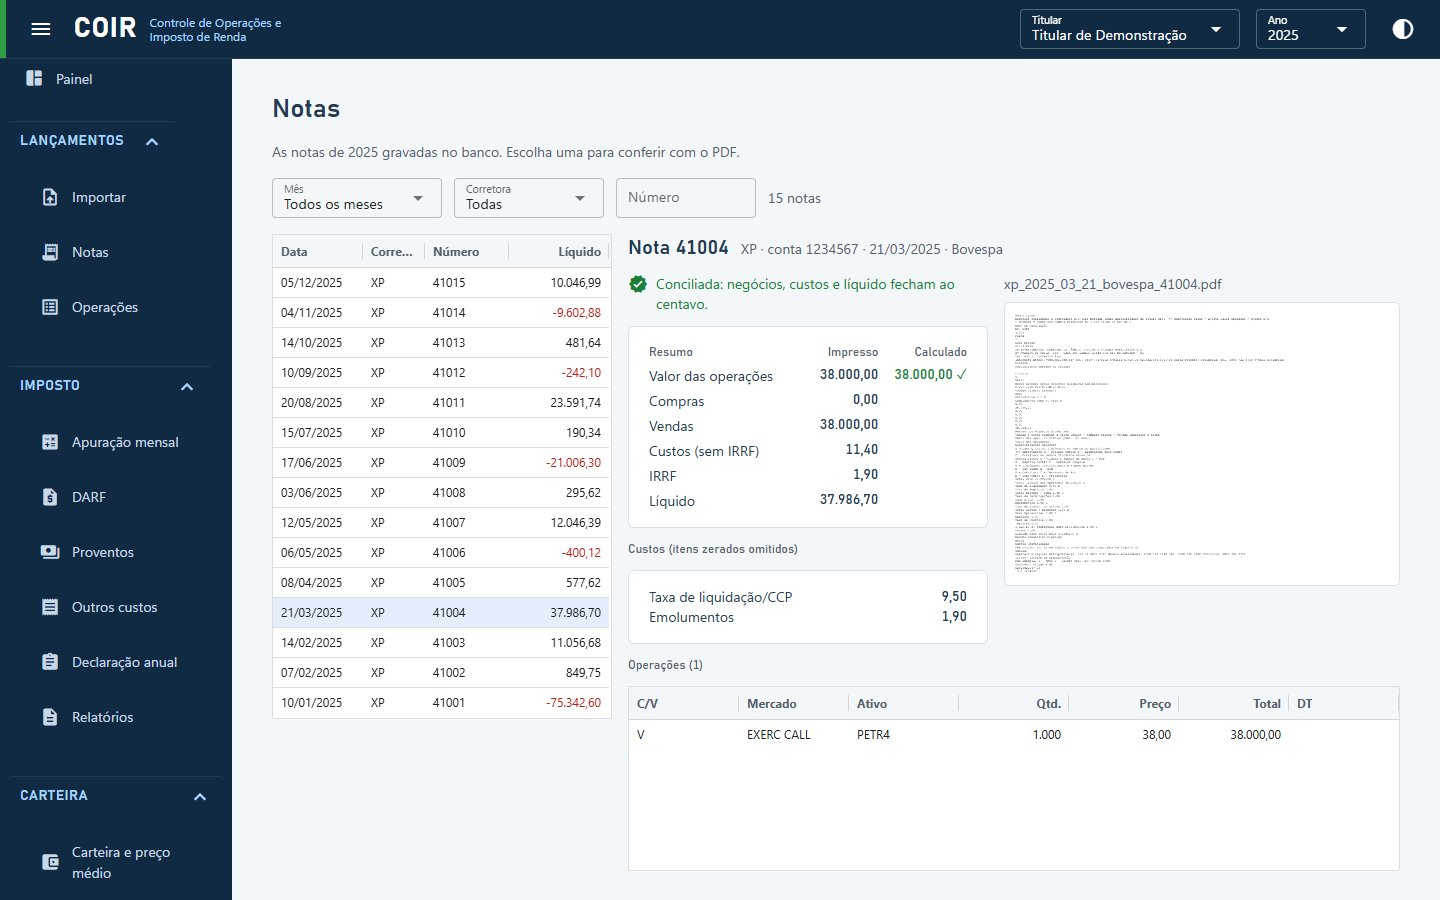
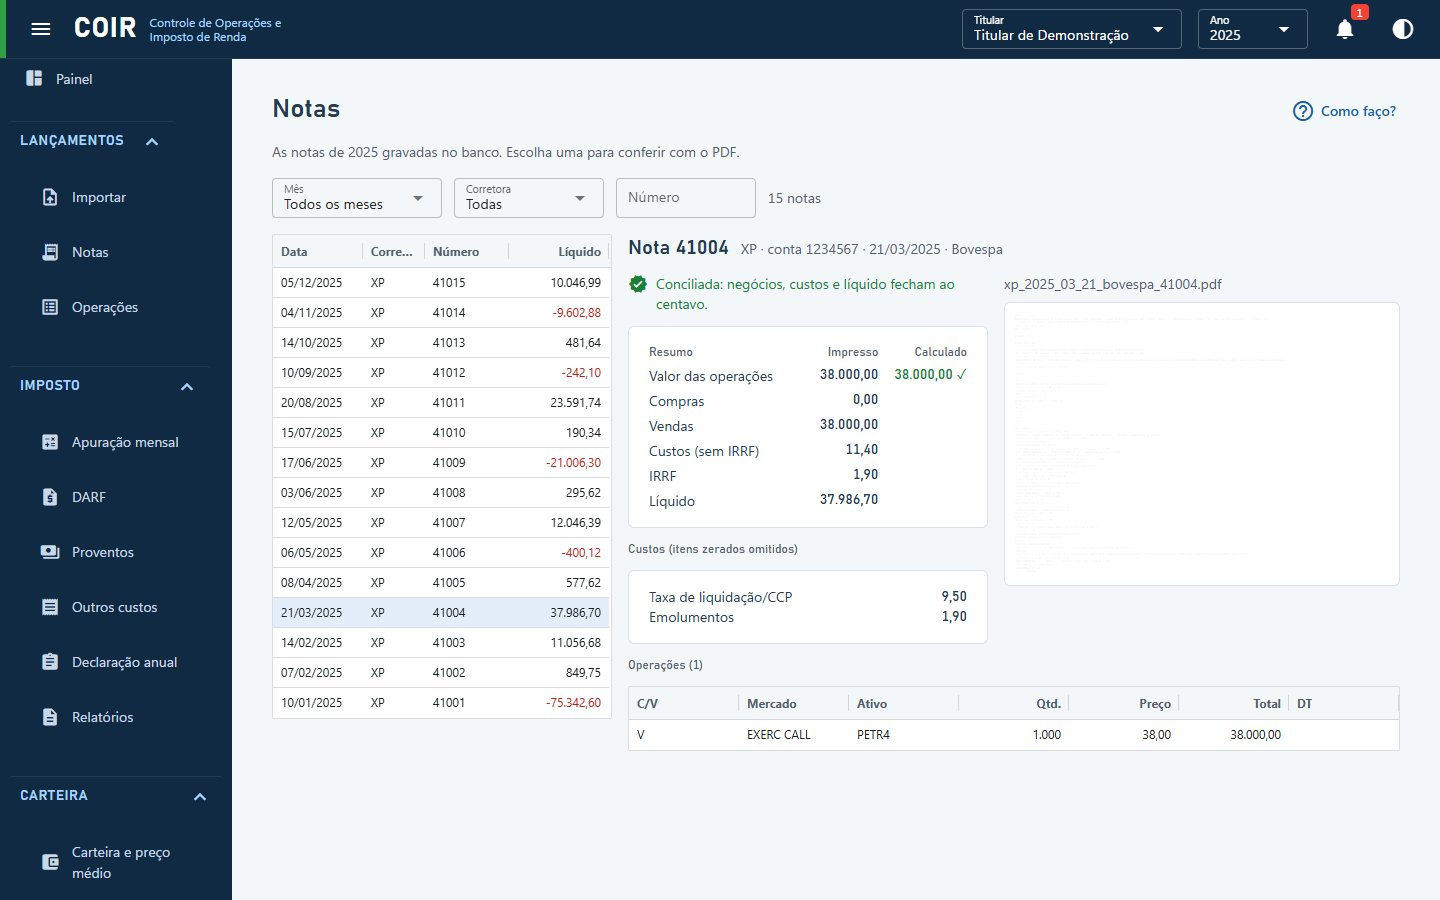
docs(manual): imagens de todas as telas refeitas e páginas com o que entrou na 3.1.1

Changed region(s): [[0.6875, 0.3422, 0.7812, 0.6222], [0.6562, 0.0, 0.9688, 0.0622], [0.9062, 0.0933, 0.9375, 0.1244]]

diff --git a/docs/manual/telas/eventos.html b/docs/manual/telas/eventos.html
@@ -44,6 +44,16 @@ footer{max-width:980px;margin:0 auto;padding:0 20px 40px;font-size:14px;color:#6
 
 <p>Desdobramentos, grupamentos e bonificações com custo publicado pela companhia na CVM <strong>entram sozinhos</strong> para as ações que estavam em carteira na data, ao importar notas e ao abrir esta tela. A tela mostra quantos entraram, com <strong>Desfazer</strong>; o que você apagar não volta. Eventos depois da sua última nota ficam de fora até você importar as notas seguintes, porque o COIR não sabe se você ainda tinha o ativo.</p>
 
+<p>No alto da aba podem aparecer avisos:</p>
+
+<ul>
+<li><strong>Movimentação da B3 ausente ou incompleta:</strong> sem a planilha de movimentação do período das notas, subscrições, restituições e ofertas não aparecem. Importe-a em Importar › Planilhas da B3.</li>
+<li><strong>Bonificação sem custo atribuído:</strong> já lançada, mas sem o custo, o preço médio da venda sai errado. <strong>Corrigir</strong> abre o evento na aba Lançados.</li>
+<li><strong>Ativo que parou de negociar:</strong> posição em ativo sem negócio na bolsa há mais de 90 dias, com o que houve, quando se sabe (falta um evento?). <strong>Ignorar</strong> tira o aviso daqui e do sino.</li>
+</ul>
+
+<p>Entre as propostas também vêm a <strong>restituição de capital</strong> em dinheiro (proposta como redução de capital, só com o valor) e o <strong>direito não exercido</strong>: o direito, recibo ou bônus de subscrição comprado que venceu sem ser exercido nem vendido vira perda em operações comuns na data do fim do prazo de subscrição. A caixa <strong>mostrar lançadas, ignoradas e posteriores</strong> mostra o resto da lista.</p>
+
 <p>Aqui fica o que depende de você:</p>
 
 <ul>
@@ -55,7 +65,7 @@ footer{max-width:980px;margin:0 auto;padding:0 20px 40px;font-size:14px;color:#6
 
 <h2 id="lancados">Lançados</h2>
 
-<p>Todos os eventos do titular. Clique num deles para corrigir ou excluir. Aqui também entram os que não têm aba própria: desdobramento, grupamento, bonificação, redução de capital e leilão de fração.</p>
+<p>Todos os eventos do titular. Clique num deles para corrigir ou excluir. Aqui também entram os que não têm aba própria: desdobramento, grupamento, bonificação, redução de capital, leilão de fração e direito não exercido.</p>
 
 <h2 id="subscricoes">Subscrições</h2>
 

diff --git a/docs/manual/telas/apuracao.html b/docs/manual/telas/apuracao.html
@@ -38,6 +38,10 @@ footer{max-width:980px;margin:0 auto;padding:0 20px 40px;font-size:14px;color:#6
 
 <p>O imposto mês a mês por categoria (comum, day trade, FII): vendas de ações no mês, inclusive em day trade (limite de R$ 20 mil), ganho isento, resultado, prejuízo anterior, base, imposto, IRRF deduzido e DARF. Escolha o mês para ver a <strong>memória de cálculo</strong>: cada movimento com a regra aplicada; clique num movimento para abrir a nota.</p>
 
+<p>No quadro <strong>Limite de isenção</strong>, a soma das vendas de ações do mês aparece com as duas parcelas, operações comuns e day trade, quando há day trade. A venda em day trade entra na soma (critério do COIR, leitura literal da Lei 11.033/2004 art. 3º I), mas o ganho dela nunca é isento: dentro do limite, só o ganho das vendas comuns de ações é isento. Num mês em que só o day trade leva a soma acima de R$ 20 mil, a apuração avisa. Vendas de ações de pequena ou média empresa (PME) aparecem em linhas próprias: o ganho é isento e fica fora do limite, e a perda não compensa outros ganhos.</p>
+
+<p>Abaixo dos movimentos, <strong>Resultado por ativo</strong> junta o mês por dia e ativo (custo médio, preço final, lucratividade e resultado); clique numa linha para ver só os movimentos dela.</p>
+
 <p><a href="../index.html">Voltar ao índice do manual</a></p>
 
 </main>

diff --git a/novidades.html b/novidades.html
@@ -91,6 +91,7 @@ Os links estão no alto da tela <strong>Suporte</strong>, no rodapé do site e n
 <li><strong>A janela abre maximizada</strong>, em vez do tamanho fixo que não cabia nas telas menores.</li>
 <li><strong>Centavos de arredondamento não recusam mais a nota.</strong> A diferença entre os valores impressos vira a linha de custo "Ajuste de arredondamento", e a nota fecha com o líquido impresso. Só o que passar do que o arredondamento explica consome a tolerância de R$ 0,05 por nota, com aviso; acima dela, a nota é recusada.</li>
 <li><strong>Endereço do site:</strong> o site e o manual passam a ficar em https://coir.com.br; o endereço antigo (marcelopcf.github.io/COIR) leva ao novo.</li>
+<li><strong>Manual:</strong> imagens de todas as telas refeitas com a versão atual, e as páginas de Eventos, Apuração, Carteira, Importar e Configurações descrevem o que entrou nesta versão (avisos e propostas da aba A conferir, soma do limite com o day trade, resultado por ativo, termo em aberto, corretora sem perfil, licença e o botão <strong>Como faço?</strong>).</li>
 </ul>
 
 <h3 id="corrigido">Corrigido</h3>

diff --git a/docs/manual/telas/configuracoes.html b/docs/manual/telas/configuracoes.html
@@ -38,6 +38,8 @@ footer{max-width:980px;margin:0 auto;padding:0 20px 40px;font-size:14px;color:#6
 
 <p>Pasta de dados, aparência (tema do Windows, claro ou escuro), <strong>backups</strong> (fazer agora, restaurar), <strong>tabelas de referência</strong> (versão em uso e o botão Atualizar tabelas), <strong>versão do programa</strong> (Verificar nova versão; a opção de verificar ao abrir vale para tabelas e programa) e o <strong>registro de atividades</strong> (importações, backups, migrações e erros, com filtro e botão para abrir a pasta).</p>
 
+<p>No fim da tela, <strong>Licença e código-fonte</strong>: o COIR é software livre (AGPL-3.0-or-later), oferecido sem garantia; os links abrem o código-fonte da versão instalada e o texto da licença. O <code>LICENSE.txt</code> e os avisos das bibliotecas de terceiros (<code>AVISOS-DE-TERCEIROS.txt</code>) ficam na pasta do programa.</p>
+
 <p>Para enviar uma nota que o COIR não lê, veja a tela <a href="suporte.html">Suporte</a>.</p>
 
 <p><a href="../index.html">Voltar ao índice do manual</a></p>

diff --git a/docs/manual/telas/carteira.html b/docs/manual/telas/carteira.html
@@ -38,6 +38,8 @@ footer{max-width:980px;margin:0 auto;padding:0 20px 40px;font-size:14px;color:#6
 
 <p>A posição numa data, com quantidade, preço médio e custo. A visão <strong>Titular (fiscal)</strong> é a que vale para o IR (um custo médio por ativo, somando corretoras e contas; IN RFB 1.585/2015 art. 58); as visões por corretora e conta servem para conferir a custódia. Escolha um ativo para ver a <strong>trilha do preço médio</strong> (cada compra, venda e evento). Exportar esta posição grava a planilha.</p>
 
+<p>Uma <strong>compra a termo ainda não liquidada</strong> aparece numa linha própria, logo abaixo do ativo, com a data da liquidação. Ela não entra na posição, no preço médio nem no total até liquidar, como na B3; ao clicar, o painel mostra a nota da compra.</p>
+
 <p><a href="../index.html">Voltar ao índice do manual</a></p>
 
 </main>

diff --git a/docs/manual/telas/importar.html b/docs/manual/telas/importar.html
@@ -47,6 +47,10 @@ footer{max-width:980px;margin:0 auto;padding:0 20px 40px;font-size:14px;color:#6
 
 <p>O titular sai do CPF impresso na nota; se ele não existir, é criado (confira o nome em Cadastros).</p>
 
+<p><strong>Corretora que o COIR ainda não conhece:</strong> ele tenta ler a nota pelos layouts padrão. Se os totais fecharem, a nota entra com um aviso para você conferir as operações (se algo estiver errado, mande a nota pela tela <a href="suporte.html">Suporte</a>); se não fecharem, ela é recusada com o motivo, e nada dela é gravado.</p>
+
+<p>Depois de importar notas, os desdobramentos, grupamentos e bonificações com custo publicado das ações em carteira entram sozinhos, e um aviso diz quantos; veja a tela <a href="eventos.html">Eventos</a>.</p>
+
 <p><a href="../index.html">Voltar ao índice do manual</a></p>
 
 </main>

diff --git a/docs/manual/primeiro-uso.html b/docs/manual/primeiro-uso.html
@@ -37,7 +37,8 @@ footer{max-width:980px;margin:0 auto;padding:0 20px 40px;font-size:14px;color:#6
 <p><img src="imagens/inicio.png" alt="Assistente de primeiros passos" /></p>
 
 <ol>
-<li><strong>Baixe e extraia</strong> o <code>COIR-windows.zip</code> (página de versões do GitHub) numa pasta sua,
+<li><strong>Baixe e extraia</strong> o <code>COIR-windows.zip</code> (botão Baixar do site https://coir.com.br, ou a página
+de versões do GitHub) numa pasta sua,
 por exemplo <code>Documentos\COIR</code>. Dê dois cliques em <code>COIR.exe</code>. Se o Windows mostrar o aviso do
 SmartScreen, clique em "Mais informações" e "Executar assim mesmo" (o programa não tem
 assinatura digital; confira o SHA-256 se quiser). Se não abrir, veja

diff --git a/docs/manual/index.html b/docs/manual/index.html
@@ -51,7 +51,8 @@ importar as primeiras notas.</li>
 <h2 id="telas">Telas</h2>
 
 <p>O menu à esquerda agrupa as telas. O topo traz o titular e o ano em uso (valem para todas as
-telas), o tema claro/escuro e o botão de recolher o menu.</p>
+telas), o tema claro/escuro e o botão de recolher o menu. Em cada tela, o botão <strong>Como faço?</strong> abre a
+página deste manual ao lado, sem cobrir o que você está preenchendo.</p>
 
 <table>
 <thead>

diff --git a/docs/manual/telas/eventos.md b/docs/manual/telas/eventos.md
@@ -10,6 +10,14 @@ O que a B3 mostra e ainda não está no seu histórico, vindo das tabelas públi
 
 Desdobramentos, grupamentos e bonificações com custo publicado pela companhia na CVM **entram sozinhos** para as ações que estavam em carteira na data, ao importar notas e ao abrir esta tela. A tela mostra quantos entraram, com **Desfazer**; o que você apagar não volta. Eventos depois da sua última nota ficam de fora até você importar as notas seguintes, porque o COIR não sabe se você ainda tinha o ativo.
 
+No alto da aba podem aparecer avisos:
+
+- **Movimentação da B3 ausente ou incompleta:** sem a planilha de movimentação do período das notas, subscrições, restituições e ofertas não aparecem. Importe-a em Importar › Planilhas da B3.
+- **Bonificação sem custo atribuído:** já lançada, mas sem o custo, o preço médio da venda sai errado. **Corrigir** abre o evento na aba Lançados.
+- **Ativo que parou de negociar:** posição em ativo sem negócio na bolsa há mais de 90 dias, com o que houve, quando se sabe (falta um evento?). **Ignorar** tira o aviso daqui e do sino.
+
+Entre as propostas também vêm a **restituição de capital** em dinheiro (proposta como redução de capital, só com o valor) e o **direito não exercido**: o direito, recibo ou bônus de subscrição comprado que venceu sem ser exercido nem vendido vira perda em operações comuns na data do fim do prazo de subscrição. A caixa **mostrar lançadas, ignoradas e posteriores** mostra o resto da lista.
+
 Aqui fica o que depende de você:
 
 - **Uma a uma:** clique numa proposta, confira os campos e use **Gravar**, ou **Ignorar proposta** se ela não vale para você. A movimentação da B3 traz a data do crédito; troque pela data ex (primeiro pregão sem o direito).
@@ -19,7 +27,7 @@ Ficam de fora das seguras o que pede algo seu (bonificação sem custo publicado
 
 ## Lançados
 
-Todos os eventos do titular. Clique num deles para corrigir ou excluir. Aqui também entram os que não têm aba própria: desdobramento, grupamento, bonificação, redução de capital e leilão de fração.
+Todos os eventos do titular. Clique num deles para corrigir ou excluir. Aqui também entram os que não têm aba própria: desdobramento, grupamento, bonificação, redução de capital, leilão de fração e direito não exercido.
 
 ## Subscrições
 

diff --git a/CHANGELOG.md b/CHANGELOG.md
@@ -50,6 +50,7 @@ O formato deste arquivo segue o [Keep a Changelog](https://keepachangelog.com/pt
 - **A janela abre maximizada**, em vez do tamanho fixo que não cabia nas telas menores.
 - **Centavos de arredondamento não recusam mais a nota.** A diferença entre os valores impressos vira a linha de custo "Ajuste de arredondamento", e a nota fecha com o líquido impresso. Só o que passar do que o arredondamento explica consome a tolerância de R$ 0,05 por nota, com aviso; acima dela, a nota é recusada.
 - **Endereço do site:** o site e o manual passam a ficar em https://coir.com.br; o endereço antigo (marcelopcf.github.io/COIR) leva ao novo.
+- **Manual:** imagens de todas as telas refeitas com a versão atual, e as páginas de Eventos, Apuração, Carteira, Importar e Configurações descrevem o que entrou nesta versão (avisos e propostas da aba A conferir, soma do limite com o day trade, resultado por ativo, termo em aberto, corretora sem perfil, licença e o botão **Como faço?**).
 
 ### Corrigido
 - **Avisos de licença de terceiros completos no pacote**: o `AVISOS-DE-TERCEIROS.txt` trazia só nome e licença das bibliotecas, incluía ferramentas de desenvolvimento que não vão no .zip e deixava de fora o que não é pacote Python. Agora traz o texto integral de cada licença, com os avisos de copyright, de tudo o que vai no .zip e só disso: bibliotecas Python, o próprio Python e as bibliotecas que ele incorpora (OpenSSL, SQLite, zlib...), o runtime da Microsoft, o carregador do PyInstaller, o WebView2, os JavaScript e as fontes da interface (Vue, Quasar, AG Grid, ECharts, Material Icons, Roboto...). A montagem do pacote falha se algum arquivo ficar sem licença declarada.

diff --git a/docs/manual/telas/apuracao.md b/docs/manual/telas/apuracao.md
@@ -4,4 +4,8 @@
 
 O imposto mês a mês por categoria (comum, day trade, FII): vendas de ações no mês, inclusive em day trade (limite de R$ 20 mil), ganho isento, resultado, prejuízo anterior, base, imposto, IRRF deduzido e DARF. Escolha o mês para ver a **memória de cálculo**: cada movimento com a regra aplicada; clique num movimento para abrir a nota.
 
+No quadro **Limite de isenção**, a soma das vendas de ações do mês aparece com as duas parcelas, operações comuns e day trade, quando há day trade. A venda em day trade entra na soma (critério do COIR, leitura literal da Lei 11.033/2004 art. 3º I), mas o ganho dela nunca é isento: dentro do limite, só o ganho das vendas comuns de ações é isento. Num mês em que só o day trade leva a soma acima de R$ 20 mil, a apuração avisa. Vendas de ações de pequena ou média empresa (PME) aparecem em linhas próprias: o ganho é isento e fica fora do limite, e a perda não compensa outros ganhos.
+
+Abaixo dos movimentos, **Resultado por ativo** junta o mês por dia e ativo (custo médio, preço final, lucratividade e resultado); clique numa linha para ver só os movimentos dela.
+
 [Voltar ao índice do manual](../README.md)

diff --git a/docs/manual/telas/configuracoes.md b/docs/manual/telas/configuracoes.md
@@ -4,6 +4,8 @@
 
 Pasta de dados, aparência (tema do Windows, claro ou escuro), **backups** (fazer agora, restaurar), **tabelas de referência** (versão em uso e o botão Atualizar tabelas), **versão do programa** (Verificar nova versão; a opção de verificar ao abrir vale para tabelas e programa) e o **registro de atividades** (importações, backups, migrações e erros, com filtro e botão para abrir a pasta).
 
+No fim da tela, **Licença e código-fonte**: o COIR é software livre (AGPL-3.0-or-later), oferecido sem garantia; os links abrem o código-fonte da versão instalada e o texto da licença. O `LICENSE.txt` e os avisos das bibliotecas de terceiros (`AVISOS-DE-TERCEIROS.txt`) ficam na pasta do programa.
+
 Para enviar uma nota que o COIR não lê, veja a tela [Suporte](suporte.md).
 
 [Voltar ao índice do manual](../README.md)
